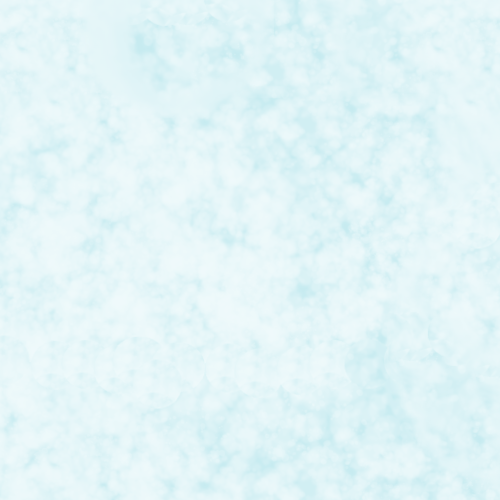
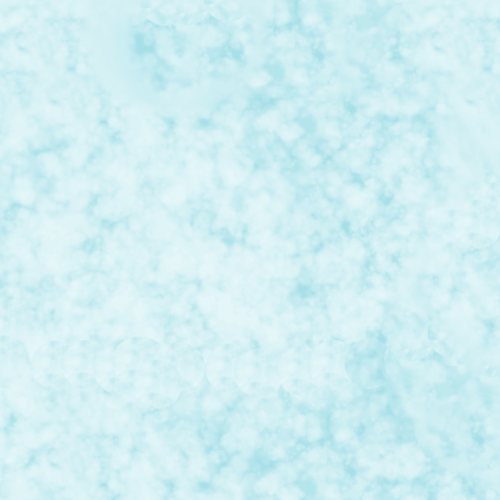
feat: paper boat parallax waves fixed for desktop

diff --git a/app/parallax/PaperBoat/index.tsx b/app/parallax/PaperBoat/index.tsx
@@ -51,20 +51,20 @@ export default function PaperBoat() {
                 }}
             ></div>
             <div
-                data-depth-x="0.4"
+                data-depth="0.4"
                 style={{
                     position: 'absolute',
                     top: '0',
                     left: '0',
-                    width: '100%',
+                    width: '112%',
                     height: '100%',
-                    backgroundImage: 'url(/parallax1-waves-back.png)', // Replace with your image path
+                    /* backgroundImage: 'url(/parallax1-waves-back.png)', */ // Replace with your image path
                     backgroundSize: 'cover',
                     backgroundPosition: 'center',
                 }}
-            ></div>
+            ><img src="/parallax1-waves-back.png" alt="Parallax waves" style={{ transform: 'translate(-200px, -80px)' }} /></div>
             <div
-                data-depth="0.6"
+                data-depth="0.7"
                 style={{
                     position: 'absolute',
                     top: '0',
@@ -84,12 +84,11 @@ export default function PaperBoat() {
                     left: '0',
                     width: '112%',
                     height: '100%',
-                    transform: 'translateX(-300px)',
-                    backgroundImage: 'url(/parallax1-waves-front.png)',
+                    /* backgroundImage: 'url(/parallax1-waves-front.png)', */
                     backgroundSize: 'cover',
                     backgroundPosition: 'center',
                 }}
-            ></div>
+            ><img src="/parallax1-waves-front.png" alt="Parallax waves" style={{ transform: 'translate(-200px, -80px)' }} /></div>
         </div>
     )
 }

diff --git a/app/containers/Hero/index.tsx b/app/containers/Hero/index.tsx
@@ -1,8 +1,21 @@
 
 import PaperBoat from '@/app/parallax/PaperBoat'
 import styles from './hero.module.css'
+import FlyingWhale from '@/app/parallax/FlyingWhale'
 
 export default function Hero() {
+
+    /* const parallaxArts = [
+        { art: <PaperBoat /> },
+        { art: <FlyingWhale /> }
+    ]
+
+    const getRandomParallax = (data: any) => {
+        const dataLength = data.length;
+        const randomNumber = Math.floor(Math.random() * dataLength);
+        
+        return data[randomNumber].art
+    } */
 
     return (
         <div className={styles.heroContainer}>
